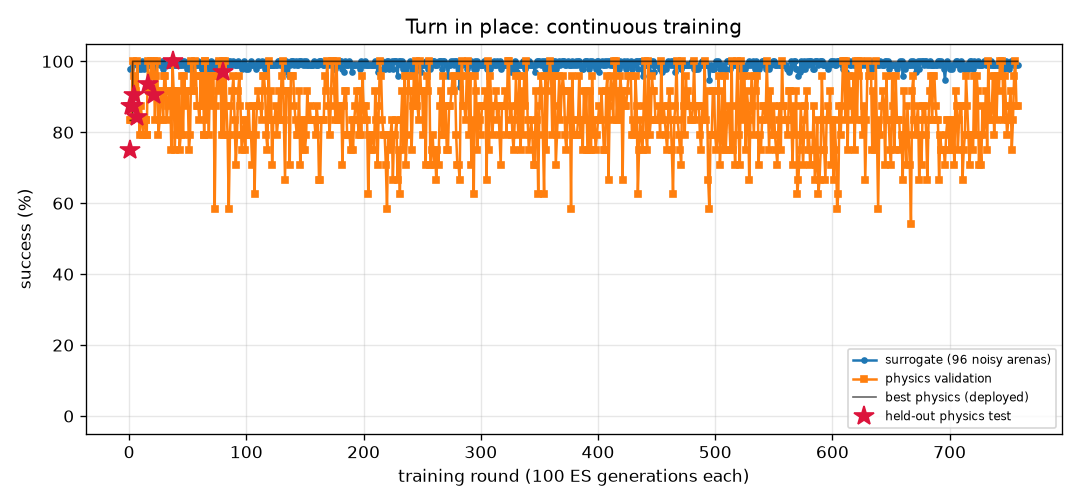
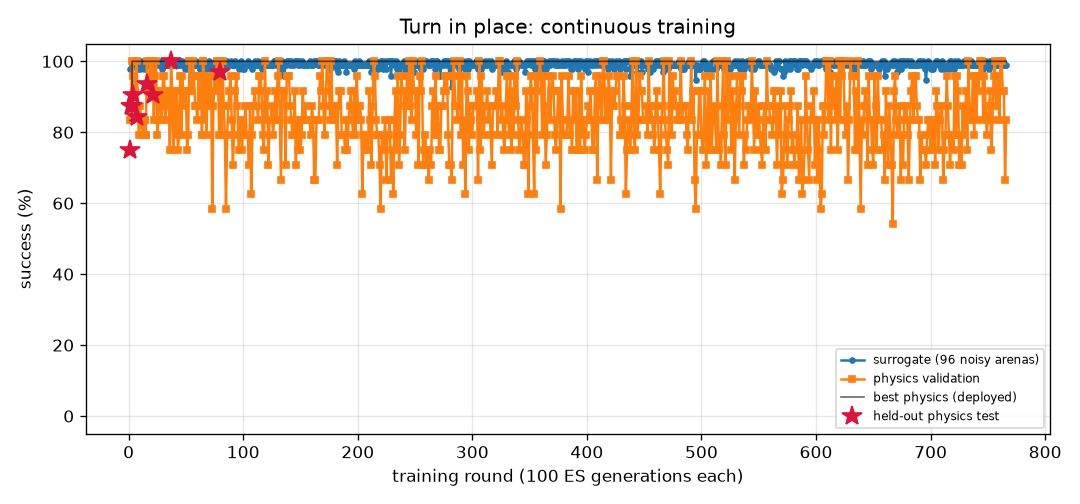
FlyLab: continuous training progress
- walk_forward: optimal, physics val 100% of 24, round 235
- turn: optimal, physics val 100% of 24, round 766
- goto: optimal, physics val 100% of 24, round 195
- odor_seek: optimal, physics val 100% of 24, round 167
- odor_avoid: optimal, physics val 100% of 24, round 698
- light_seek: optimal, physics val 100% of 24, round 390
- light_avoid: optimal, physics val 100% of 24, round 433

diff --git a/projects/09_flylab/training/turn/REPORT.md b/projects/09_flylab/training/turn/REPORT.md
@@ -1,14 +1,14 @@
 # Turn in place (`turn`) — training report
 
-*Auto-generated by `train_brains.py`, last updated 2026-10-29T22:10:51.*
+*Auto-generated by `train_brains.py`, last updated 2026-10-30T19:06:37.*
 
 ![curve](curve.png)
 
 | | |
 |---|---|
-| rounds | 758 |
-| ES generations | 75800 |
-| physics runs | 18438 |
+| rounds | 766 |
+| ES generations | 76600 |
+| physics runs | 18630 |
 | status | **optimal** |
 | best brain | round 80: physics validation **100%** on 24 arenas, surrogate 100% |
 | held-out physics test | **97%** on 32 unseen arenas (95% CI 84%-99%) (errors: [1.6, 3.3, 6.3, 3.7, 1.1, 0.4, 2.4, 2.9, 0.1, 2.6, 0.5, 2.7, 1.5, 3.1, 4.5, 0.2, 0.5, 1.1, 2.0, 4.4, 2.8, 3.2, 0.3, 2.2, 0.5, 3.0, 0.3, 5.4, 0.4, 1.0, 4.7, 10.7]) |
@@ -17,14 +17,6 @@ Physics error per arena: deg from target heading (< 20 = success).
 
 | round | level | gens | sigma | surrogate | physics val | val errors | test | note |
 |---:|---:|---:|---:|---:|---:|---|---:|---|
-| 719 | 3 | 71900 | 0.024 | 99% | 79% | [0.0, 6.4, 1.1, 0.6, 4.4, 1.4, 5.4, 3.8, 5.4, 0.5, 2.3, 0.5, 1.5, 3.5, 2.4, 1.8, 0.8, 0.4, 1.3, 0.6, 5.8, 0.1, 5.8, 3.1] |  |  |
-| 720 | 3 | 72000 | 0.025 | 98% | 75% | [4.2, 2.0, 5.6, 0.2, 4.1, 13.0, 6.8, 3.5, 6.5, 0.7, 5.9, 0.1, 1.5, 0.0, 5.2, 2.8, 0.4, 2.2, 2.4, 2.3, 107.9, 4.6, 6.7, 8.6] |  | restart from best |
-| 721 | 3 | 72100 | 0.024 | 100% | 96% | [9.2, 11.3, 10.9, 7.8, 4.8, 5.6, 0.7, 8.2, 0.3, 3.1, 0.1, 5.6, 4.0, 3.9, 0.2, 1.8, 5.9, 1.3, 3.5, 3.8, 7.8, 0.7, 0.2, 9.1] |  |  |
-| 722 | 3 | 72200 | 0.024 | 99% | 79% | [4.0, 1.6, 6.3, 3.8, 1.8, 0.8, 7.1, 6.9, 8.3, 1.4, 5.1, 1.3, 0.4, 0.4, 4.6, 13.2, 1.0, 2.7, 3.3, 3.6, 5.2, 1.1, 5.8, 5.5] |  |  |
-| 723 | 3 | 72300 | 0.025 | 99% | 96% | [9.9, 6.4, 11.1, 3.9, 13.6, 2.5, 9.3, 9.9, 8.5, 3.1, 8.0, 2.1, 0.0, 2.3, 6.9, 6.3, 2.4, 4.0, 4.8, 4.9, 1.8, 3.3, 8.6, 6.1] |  |  |
-| 724 | 3 | 72400 | 0.025 | 100% | 92% | [1.2, 8.0, 0.9, 4.1, 6.8, 1.0, 5.5, 1.7, 3.9, 1.2, 3.3, 0.5, 0.4, 2.4, 4.0, 1.0, 0.6, 0.7, 0.6, 0.6, 4.9, 1.3, 3.9, 4.5] |  | restart from best |
-| 725 | 3 | 72500 | 0.024 | 99% | 71% | [0.5, 5.7, 7.1, 1.8, 2.7, 13.3, 5.2, 0.0, 3.5, 1.3, 3.6, 0.3, 0.7, 3.0, 3.2, 1.1, 0.1, 0.5, 0.5, 0.7, 6.6, 0.2, 5.8, 1.8] |  |  |
-| 726 | 3 | 72600 | 0.025 | 99% | 79% | [6.4, 10.5, 5.9, 4.5, 3.3, 4.8, 2.3, 3.3, 2.9, 3.0, 1.7, 2.6, 2.6, 4.5, 1.6, 2.1, 1.3, 0.5, 1.6, 2.2, 7.4, 1.8, 2.5, 1.8] |  |  |
 | 727 | 3 | 72700 | 0.025 | 99% | 71% | [5.1, 0.9, 4.7, 1.7, 0.1, 3.8, 7.2, 4.6, 5.8, 0.4, 5.7, 0.8, 1.8, 1.4, 5.8, 3.9, 1.0, 2.9, 4.2, 4.5, 4.3, 1.2, 7.1, 5.9] |  |  |
 | 728 | 3 | 72800 | 0.025 | 99% | 88% | [6.0, 9.0, 0.7, 2.7, 0.6, 46.3, 3.5, 0.8, 4.6, 1.6, 3.0, 1.8, 0.0, 2.7, 2.5, 1.2, 1.5, 0.1, 1.3, 0.8, 6.4, 0.1, 4.8, 3.1] |  | restart from best |
 | 729 | 3 | 72900 | 0.024 | 100% | 79% | [6.1, 4.2, 6.0, 3.5, 1.4, 10.2, 6.6, 7.7, 5.4, 0.4, 4.6, 0.4, 2.4, 2.4, 4.5, 0.4, 0.5, 1.2, 0.1, 0.3, 3.0, 1.1, 6.0, 3.3] |  |  |
@@ -57,3 +49,11 @@ Physics error per arena: deg from target heading (< 20 = success).
 | 756 | 3 | 75600 | 0.024 | 99% | 100% | [8.4, 13.7, 5.5, 1.9, 2.4, 6.3, 14.2, 7.0, 7.4, 12.8, 4.9, 6.7, 1.8, 2.9, 4.6, 14.3, 6.7, 5.2, 14.0, 13.9, 1.6, 5.9, 7.4, 7.5] |  | restart from best |
 | 757 | 3 | 75700 | 0.024 | 99% | 88% | [7.3, 8.8, 4.5, 3.1, 0.9, 0.9, 2.5, 2.3, 3.6, 1.6, 2.1, 2.7, 2.6, 1.5, 1.9, 2.1, 2.9, 0.5, 1.9, 1.5, 6.8, 0.6, 2.8, 4.1] |  |  |
 | 758 | 3 | 75800 | 0.025 | 99% | 88% | [8.6, 10.3, 7.1, 3.0, 3.6, 4.3, 3.4, 3.9, 3.3, 0.6, 2.5, 3.3, 0.9, 5.8, 2.1, 2.7, 3.2, 0.1, 3.1, 1.7, 7.1, 2.3, 1.4, 0.7] |  |  |
+| 759 | 3 | 75900 | 0.025 | 99% | 96% | [4.8, 9.3, 3.0, 1.3, 1.4, 2.8, 2.9, 0.2, 4.6, 0.6, 3.2, 2.7, 1.4, 3.5, 3.2, 2.0, 3.1, 0.9, 1.9, 2.3, 7.3, 0.7, 2.1, 2.7] |  |  |
+| 760 | 3 | 76000 | 0.025 | 100% | 83% | [0.9, 4.1, 2.7, 0.2, 1.4, 1.3, 5.2, 8.3, 5.9, 0.5, 5.2, 1.5, 0.4, 2.7, 3.4, 0.2, 1.1, 2.8, 1.4, 0.7, 2.0, 1.9, 6.5, 6.0] |  | restart from best |
+| 761 | 3 | 76100 | 0.024 | 100% | 100% | [2.6, 5.7, 3.8, 3.5, 4.8, 3.3, 3.6, 5.2, 7.0, 0.2, 3.5, 0.4, 1.2, 1.4, 4.2, 6.6, 0.5, 0.0, 6.4, 2.5, 2.1, 0.9, 4.8, 5.4] |  |  |
+| 762 | 3 | 76200 | 0.024 | 99% | 100% | [6.4, 8.9, 8.3, 1.2, 12.7, 2.0, 3.6, 1.9, 1.4, 0.7, 1.5, 1.3, 2.0, 4.7, 2.4, 1.4, 1.4, 1.0, 4.0, 2.3, 4.5, 1.4, 2.9, 2.4] |  |  |
+| 763 | 3 | 76300 | 0.025 | 100% | 92% | [4.7, 4.0, 0.1, 0.9, 3.1, 13.9, 4.4, 2.9, 3.5, 12.9, 3.9, 0.9, 1.7, 1.6, 2.8, 1.0, 0.8, 1.8, 0.8, 2.4, 2.5, 0.8, 6.0, 2.0] |  |  |
+| 764 | 3 | 76400 | 0.024 | 99% | 92% | [8.3, 9.9, 4.0, 4.8, 2.9, 1.6, 2.5, 4.4, 2.0, 2.6, 1.6, 2.8, 3.3, 3.7, 1.4, 2.0, 2.2, 1.8, 1.2, 1.7, 3.9, 0.1, 2.3, 2.7] |  | restart from best |
+| 765 | 3 | 76500 | 0.024 | 99% | 67% | [6.3, 2.7, 5.5, 0.8, 1.8, 0.2, 8.4, 7.5, 6.8, 1.0, 4.8, 0.1, 1.2, 1.2, 6.8, 2.7, 0.2, 2.8, 2.9, 3.9, 5.0, 1.3, 6.1, 8.2] |  |  |
+| 766 | 3 | 76600 | 0.025 | 99% | 83% | [3.1, 3.8, 4.1, 1.8, 4.3, 0.7, 6.8, 2.5, 5.8, 0.0, 5.2, 0.7, 1.0, 2.5, 3.1, 0.4, 1.1, 1.1, 0.3, 0.2, 6.4, 1.1, 5.8, 2.6] |  |  |

diff --git a/projects/09_flylab/training/TRAINING.md b/projects/09_flylab/training/TRAINING.md
@@ -1,13 +1,13 @@
 # FlyLab brains — continuous training log
 
-*Auto-generated by `train_brains.py`, last updated 2026-10-29T22:11:34.*
+*Auto-generated by `train_brains.py`, last updated 2026-10-30T19:06:37.*
 
 Every skill has its own brain and its own training process: surrogate ES rounds, physics validation in MuJoCo, keep-the-best selection, and a held-out physics test that is never used for selection. See each skill's report for its full round-by-round history. Mastery is progressive: passing a level (100% physics validation, >=95% surrogate) doubles the validation and test arena sets; a brain is **optimal** once it holds up at level 3 (>=95% of 24 validation arenas) AND scores >=90% on the 32 held-out test arenas. Test columns show 95% Wilson confidence intervals.
 
 | skill | rounds | ES generations | physics runs | surrogate | physics val | **physics test** | status |
 |---|---:|---:|---:|---:|---:|---:|---|
 | [Walk forward](walk_forward/REPORT.md) | 235 | 23500 | 5654 | 100% | 100% of 24 | 100% of 32 (CI 89-100%) | **optimal** |
-| [Turn in place](turn/REPORT.md) | 758 | 75800 | 18438 | 100% | 100% of 24 | 97% of 32 (CI 84-99%) | **optimal** |
+| [Turn in place](turn/REPORT.md) | 766 | 76600 | 18630 | 100% | 100% of 24 | 97% of 32 (CI 84-99%) | **optimal** |
 | [Go to a location](goto/REPORT.md) | 195 | 19500 | 4630 | 100% | 100% of 24 | 100% of 32 (CI 89-100%) | **optimal** |
 | [Find food by smell](odor_seek/REPORT.md) | 167 | 16700 | 3438 | 100% | 100% of 24 | 100% of 32 (CI 89-100%) | **optimal** |
 | [Escape a bad smell](odor_avoid/REPORT.md) | 698 | 69800 | 14058 | 97% | 100% of 24 | 97% of 32 (CI 84-99%) | **optimal** |
